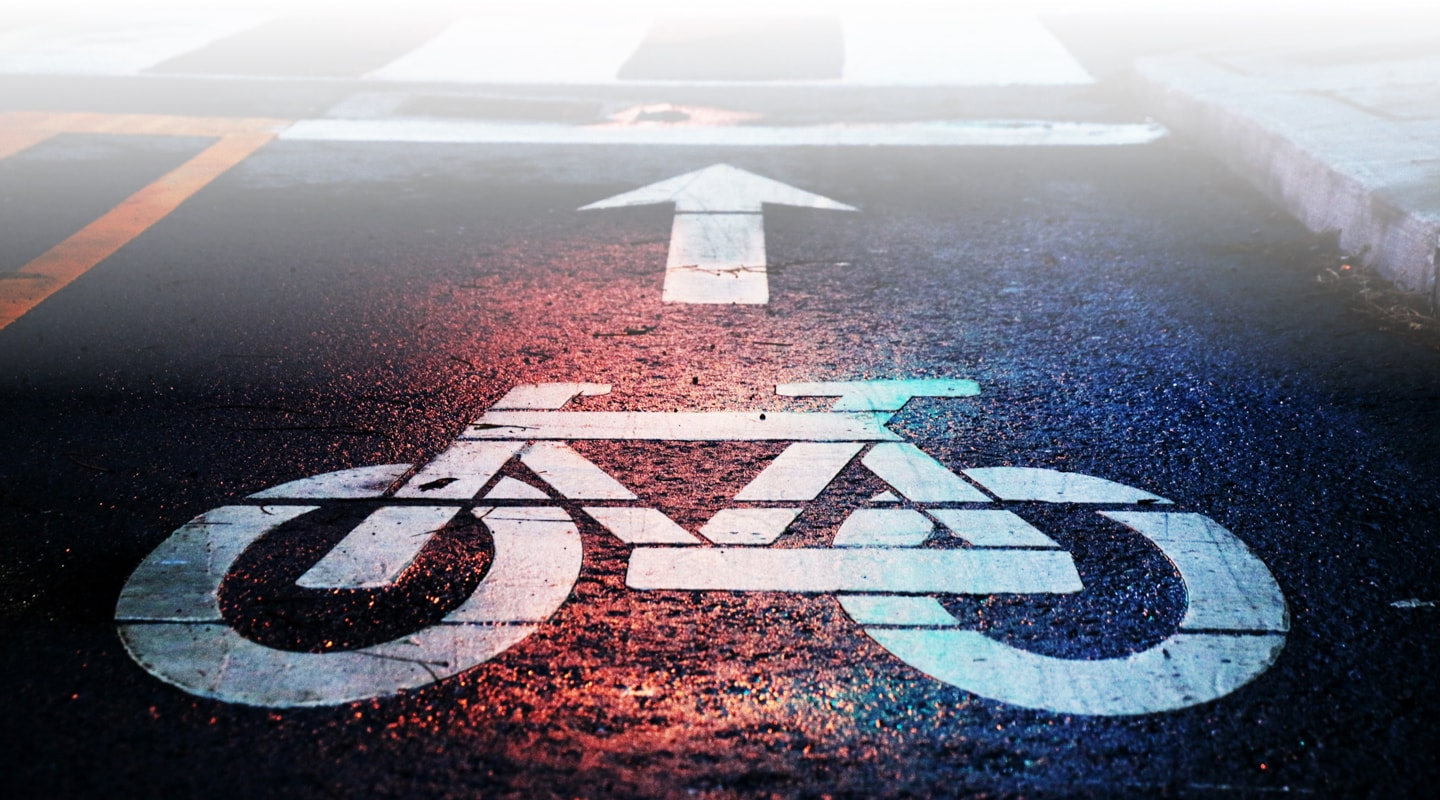
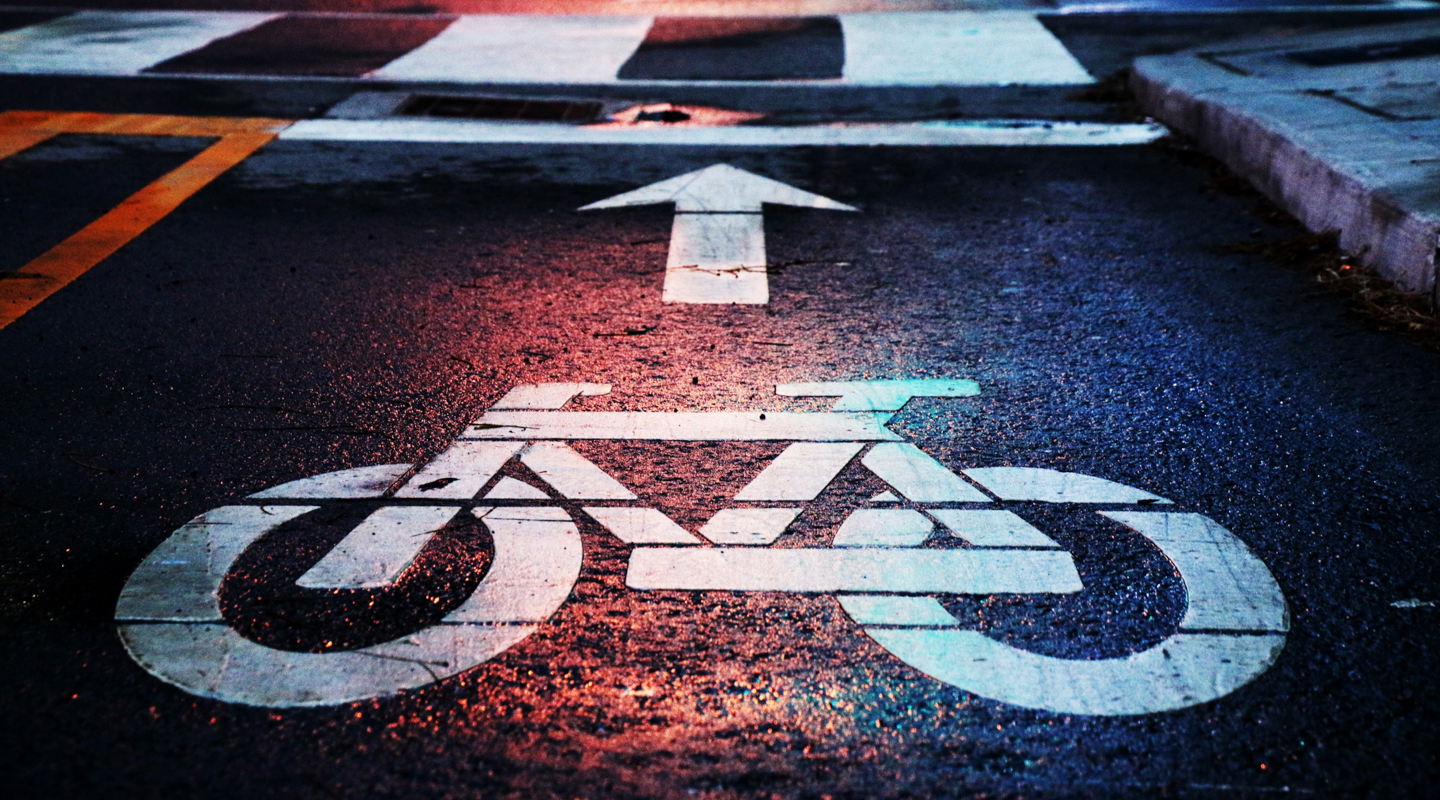
improved website title header

diff --git a/index.html b/index.html
@@ -30,7 +30,7 @@
 	</head>
 
 	<body>
-		<div class="container-fluid">
+		<div class="container-fluid header">
 			<div class="container">
 				<h1>Bicycling in Berlin</h1>
 				<h3>something between fear and hope</h3>
@@ -39,8 +39,12 @@
 					A cooperation between FH Potsdam and FixMyBerlin.
 				</div>
 			</div>
+		</div>
 
-			<img src="graphics/hero-image.jpg" class="img-fluid mx-auto d-block" alt="Responsive image">
+			<div class="hero-image">
+				<img src="graphics/hero-image.jpg" alt="Responsive image">
+				<div class="gradient-image-overlay"></div>
+			</div>
 
 			<!-- +++++++++++++++++++++++++++++++++++++++++++++++++++++++++++++++++ -->
 			<!-- +++++++++++++++++++++++++++++ INTRO +++++++++++++++++++++++++++++ -->
@@ -160,7 +164,6 @@ The “Berliner Morgenpost” asked their readers if they feel safe going by bik
 					The survey shows that more than 60% feel unsafe riding the bike in Berlin. Not only does a better safety feeling reduce the accident danger, but of course greatly improves the riding quality and leads to more people choosing the bike over cars. This is the right way to a green city. To reach this goal the city has to build more cycle tracks and improve existing bike lanes. The “bike law” supports this amongst other things!
 				</p>
 			</div>
-		</div>
 
 			<!-- +++++++++++++++++++++++++++++++++++++++++++++++++++++++++++++++++ -->
 			<!-- ++++++++++++++++++++ SECURITY SCROLLYTELLING ++++++++++++++++++++ -->

diff --git a/css/main.css b/css/main.css
@@ -10,7 +10,6 @@ body, div, p, h3, h4 {
 
 h1, h2 {
 	font-family: 'Vollkorn', serif;
-	color: #980000;
 }
 
 h1, h2, h3, h4 {
@@ -20,8 +19,9 @@ h1, h2, h3, h4 {
 h1 {
 	font-size: 60px;
 	font-weight: 600;
-	margin-top: 100px;
+	margin-top: 0px;
 	margin-bottom: 20px;
+	color: #BF1313;
 }
 
 h2 {
@@ -29,6 +29,7 @@ h2 {
 	font-weight: 600;
 	padding-bottom: 30px;
 	margin-bottom: 30px;
+	color: #980000;
 }
 
 h2::after {
@@ -110,6 +111,44 @@ h5 {
 
 /* ++++++++++++++++++++++++++++++++++++++++++++++++++++++++++++++++++++++++++ */
 /* +++++++++++++++++++++++++++++++++ INTRO ++++++++++++++++++++++++++++++++++ */
+/* ++++++++++++++++++++++++++++++++++++++++++++++++++++++++++++++++++++++++++ */
+
+.header {
+	background-color: #0A0A0A;
+}
+
+.header .container h3, .header .container div {
+	color: rgba(255, 255, 255, 0.9);
+}
+
+.header .container {
+	margin-top: 0;
+	margin-bottom: 0;
+	padding-top: 80px;
+	padding-bottom: 10px;
+}
+
+.hero-image {
+	position: relative;
+	display: block;
+}
+
+.hero-image img {
+	width: 100%;
+	height: auto;
+}
+
+.gradient-image-overlay {
+	position: absolute;
+	left: 0;
+	top: 0;
+	width: 100%;
+	height: 50%;
+	background-image: linear-gradient(0deg, rgba(10,10,10,0.00) 0%, #0A0A0A 100%);
+	z-index: 1000;
+	pointer-events: none;
+}
+
 /* ++++++++++++++++++++++++++++++++++++++++++++++++++++++++++++++++++++++++++ */
 
 .bike-paths-container {
